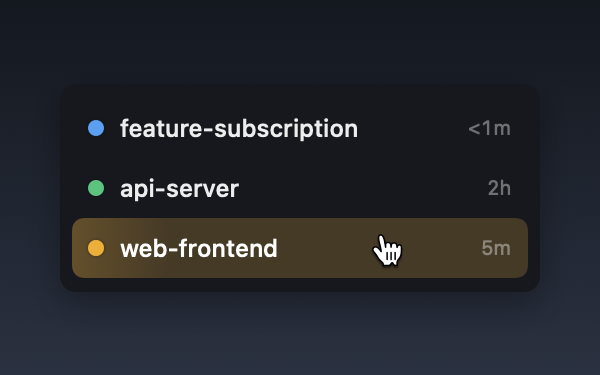
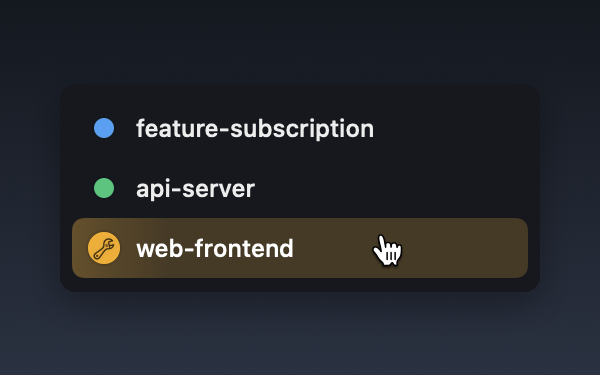
feat: LPに「返答の形」機能カードを追加し、旧デザインの画像を差し替え
waiting_kindアイコン（承認/プラン/選択）が何を表すか説明する新規カードを
「待ちがひと目でわかる」の直後に追加。あわせて、経過時間表示ありの
旧デザインのまま残っていたヒーロー画像・関連機能カード画像（waiting/
jump/keyboard/catroom）を最新デザインで再生成する。

diff --git a/index.html b/index.html
@@ -791,14 +791,27 @@
     <div class="feat-item feat-item--shot">
       <div class="feat-thumb">
         <img class="feat-thumb-img" src="feature-waiting.png" loading="lazy"
-             alt="The AgentManager window listing sessions that are running, waiting, and done — each with a colored status dot and elapsed time">
+             alt="The AgentManager window listing sessions that are running, waiting, and done — each with a colored status dot">
       </div>
       <div class="feat-title">
         <svg class="feat-px" viewBox="0 0 10 10"><rect width="10" height="10" fill="#F5A623"/></svg>
         <h3 data-en="See what's waiting" data-ja="待ちがひと目でわかる">See what's waiting</h3>
       </div>
-      <p data-en="Every session's status at a glance — which is running, which needs you, which is done — and how long each has been that way."
-         data-ja="全セッションの状態を一覧で確認。動いているもの、確認待ち、完了済み、そしてその状態になってからの経過時間までひと目でわかります。">Every session's status at a glance — which is running, which needs you, which is done — and how long each has been that way.</p>
+      <p data-en="Every session's status at a glance — which is running, which needs you, which is done."
+         data-ja="全セッションの状態を一覧で確認。動いているもの、確認待ち、完了済みがひと目でわかります。">Every session's status at a glance — which is running, which needs you, which is done.</p>
+    </div>
+
+    <div class="feat-item feat-item--shot">
+      <div class="feat-thumb">
+        <img class="feat-thumb-img" src="feature-waiting-kinds.png" loading="lazy"
+             alt="The AgentManager session list with status dots showing icons for approval, plan review, and choice — labeled Approve or deny, Review the plan, and Pick an option">
+      </div>
+      <div class="feat-title">
+        <svg class="feat-px" viewBox="0 0 10 10"><rect width="10" height="10" fill="#F5A623"/></svg>
+        <h3 data-en="See why it's waiting" data-ja="待ちの理由もわかる">See why it's waiting</h3>
+      </div>
+      <p data-en="A quick yes/no, a plan to review, or a choice to make — the status dot itself shows which, so you know what you're getting into before you jump in."
+         data-ja="承認が要るだけなのか、プランをじっくり見る必要があるのか、選択肢から選ぶのか。ステータスドット自体が教えてくれるので、ジャンプする前に心構えができます。">A quick yes/no, a plan to review, or a choice to make — the status dot itself shows which, so you know what you're getting into before you jump in.</p>
     </div>
 
     <div class="feat-item feat-item--shot">
